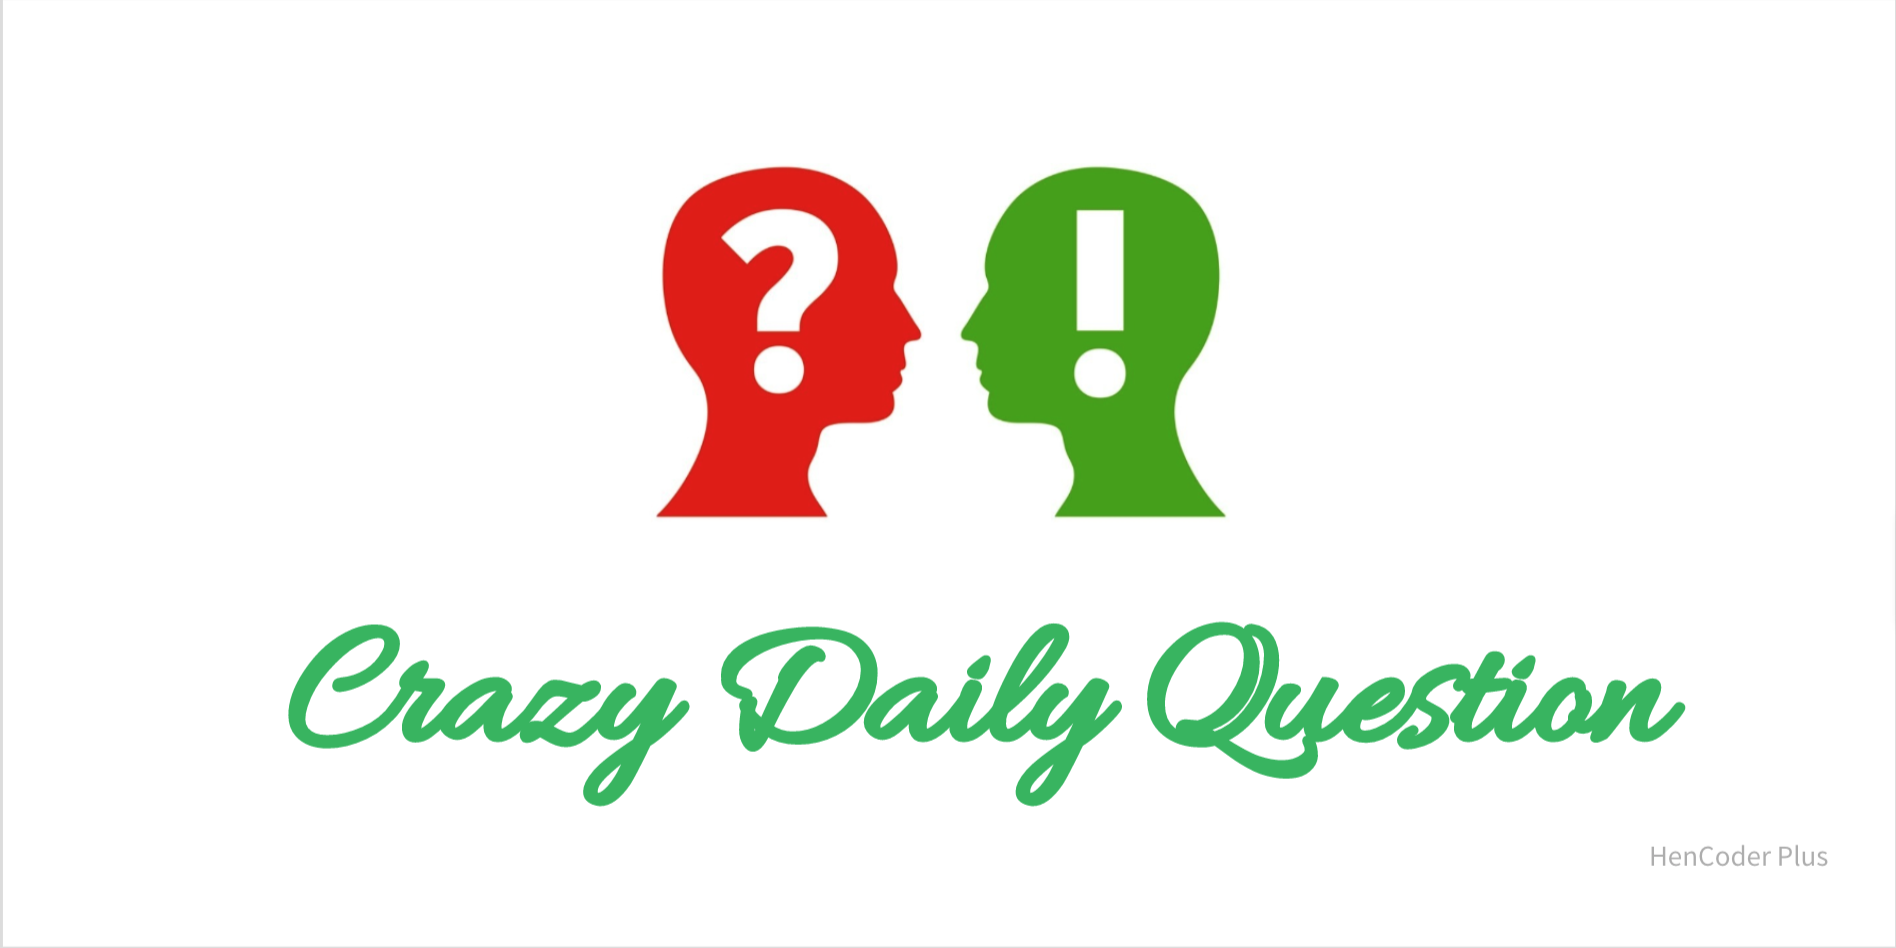
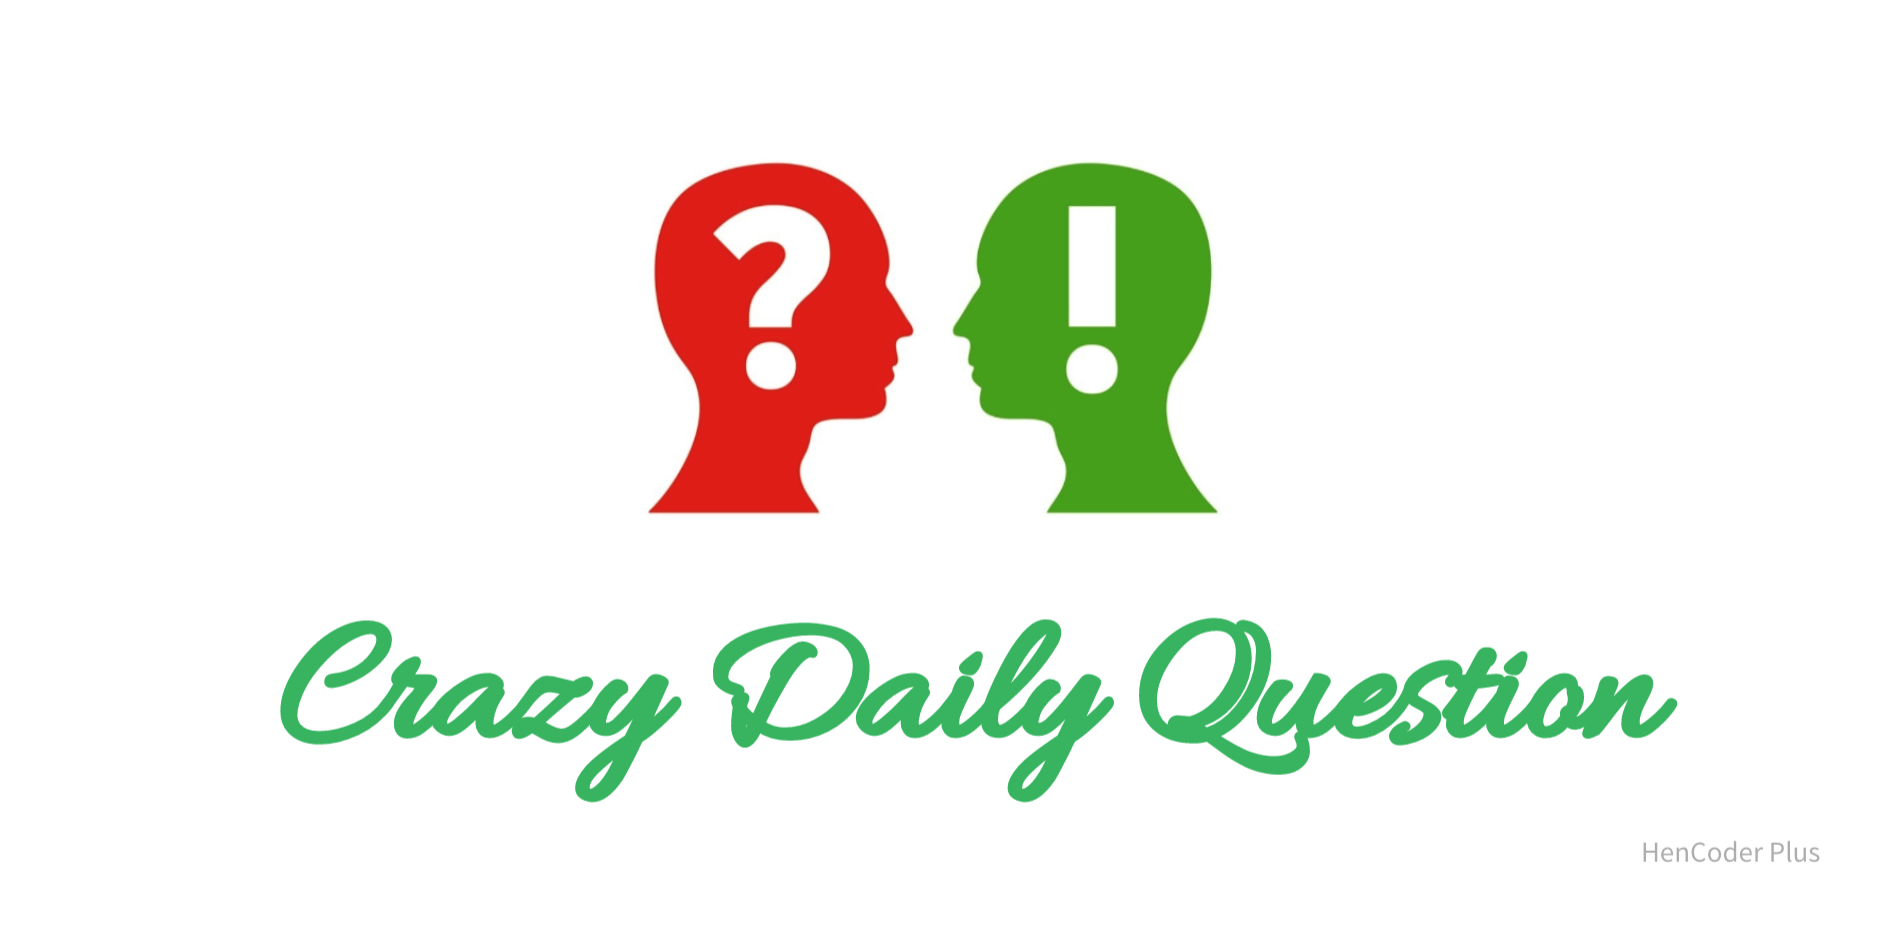
跳转

diff --git a/README.md b/README.md
@@ -1,6 +1,6 @@
  <p align="center">
    <a href="https://github.com/Moosphan/Android-Daily-Interview" target="_blank">
- 	  <img src="https://raw.githubusercontent.com/MicroKibaco/CrazyDailyQuestion/master/image/title.png" width="1200" height="200"/>
+ 	  <img src="https://raw.githubusercontent.com/MicroKibaco/CrazyDailyQuestion/master/image/title.png" width="1200" height="280"/>
    </a>
  </p>
  
